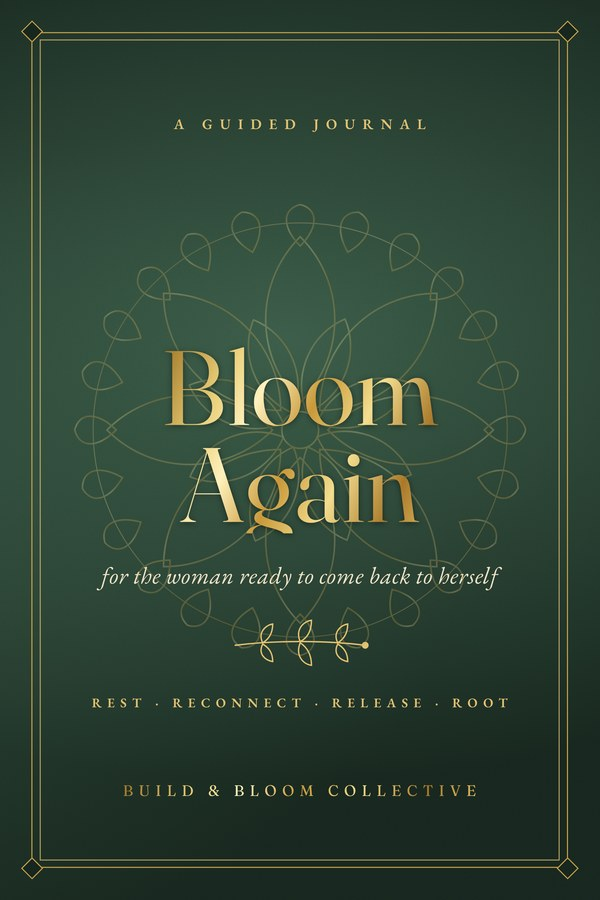
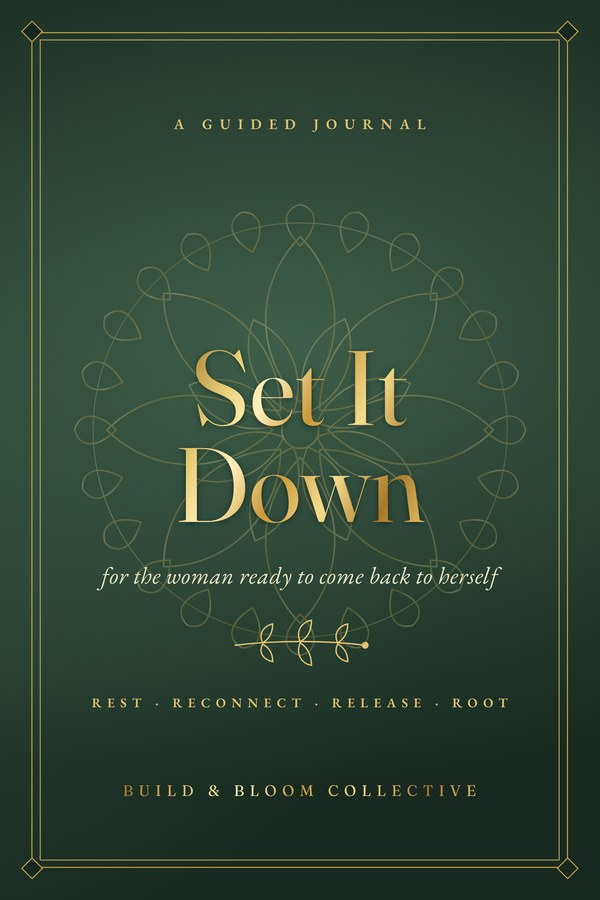
Rename the journal from Bloom Again to Set It Down
Claude-Session: https://claude.ai/code/session_015517fZLRZNdjBK4fYvaqjR

Changed region(s): [[0.27, 0.3733, 0.72, 0.5911]]

diff --git a/app/(site)/bloom-again/page.tsx b/app/(site)/bloom-again/page.tsx
@@ -4,8 +4,8 @@ import "@/components/site/wellness.css";
 import "@/components/site/bloom-again.css";
 
 export const metadata = {
-  title: "Bloom Again: Journal Companion",
-  description: "The free companion to Bloom Again, the guided journal by Jadon Thomas: a 30-day email follow-along, the practices step by step, and printable pages.",
+  title: "Set It Down: Journal Companion",
+  description: "The free companion to Set It Down, the guided journal by Jadon Thomas: a 30-day email follow-along, the practices step by step, and printable pages.",
 };
 
 const PARTS = ["Rest", "Reconnect", "Release", "Root"] as const;
@@ -22,7 +22,7 @@ export default function BloomAgain() {
       <section className="page-hero wl-hero">
         <div className="wrap ba-hero">
           <div>
-            <p className="eyebrow">The Bloom Again companion</p>
+            <p className="eyebrow">The Set It Down companion</p>
             <h1 style={{ marginTop: 16 }}>
               <span className="ink">You don&rsquo;t have to</span> do this alone.
             </h1>
@@ -35,7 +35,7 @@ export default function BloomAgain() {
               <a className="btn btn-ghost" href="#practices">The practices</a>
             </div>
           </div>
-          <img className="ba-cover" src="/bloom-again/cover.jpg" alt="Bloom Again, a guided journal by Jadon Thomas" width={600} height={900} />
+          <img className="ba-cover" src="/bloom-again/cover.jpg" alt="Set It Down, a guided journal by Jadon Thomas" width={600} height={900} />
         </div>
       </section>
 
@@ -129,7 +129,7 @@ export default function BloomAgain() {
       <section className="section">
         <div className="wrap narrow">
           <p className="small muted" style={{ textAlign: "center", margin: 0 }}>
-            Bloom Again is a tool for reflection and self-care, not a substitute for therapy or medical care. If you&rsquo;re in crisis, call or text 988 in the United States, any time.
+            Set It Down is a tool for reflection and self-care, not a substitute for therapy or medical care. If you&rsquo;re in crisis, call or text 988 in the United States, any time.
           </p>
         </div>
       </section>

diff --git a/lib/email-audience.ts b/lib/email-audience.ts
@@ -38,11 +38,11 @@ export async function audiences(): Promise<Audience[]> {
     { id: "clients", label: "Active clients", hint: "Clients with a full portal who are active or completed.", people: dedupe(full.map((c) => person(c.name, c.email, "Client", c.contactName ? firstName(c.contactName) : undefined))) },
     { id: "guests", label: "All event guests", hint: "Everyone with a guest pass.", people: dedupe(guests.map((c) => person(c.name, c.email, "Guest"))) },
     { id: "leads", label: "Leads: new and contacted", hint: "Inquiries, guidebook requests, and event guests who aren't clients yet.", people: dedupe(openLeads.map((l) => person(l.name, l.email, "Lead"))) },
-    { id: "bloomagain", label: "Bloom Again readers", hint: "Everyone who joined the journal's 30-day follow-along.", people: dedupe(readers.map((r) => person(r.name, r.email, "Reader"))) },
+    { id: "bloomagain", label: "Set It Down readers", hint: "Everyone who joined the journal's 30-day follow-along.", people: dedupe(readers.map((r) => person(r.name, r.email, "Reader"))) },
     { id: "waitlist", label: "Wellness Library waitlist", hint: "Everyone still waiting or invited.", people: dedupe(waitlist.filter((w) => w.status !== "joined").map((w) => person(w.name, w.email, "Waitlist"))) },
   );
   const everyone = dedupe([...full.map((c) => person(c.name, c.email, "Client", c.contactName ? firstName(c.contactName) : undefined)), ...guests.map((c) => person(c.name, c.email, "Guest")), ...leads.filter((l) => l.status !== "closed").map((l) => person(l.name, l.email, "Lead")), ...waitlist.map((w) => person(w.name, w.email, "Waitlist")), ...readers.map((r) => person(r.name, r.email, "Reader"))]);
-  out.push({ id: "everyone", label: "Everyone", hint: "All clients, guests, leads (except closed), the waitlist, and Bloom Again readers, each address once.", people: everyone });
+  out.push({ id: "everyone", label: "Everyone", hint: "All clients, guests, leads (except closed), the waitlist, and Set It Down readers, each address once.", people: everyone });
   return out;
 }
 

diff --git a/lib/shop-def.ts b/lib/shop-def.ts
@@ -79,8 +79,8 @@ export const DEFAULT_PRODUCTS: Product[] = [
 ];
 
 export const BLOOM_AGAIN: Product = {
-  id: "bloom-again", slug: "bloom-again", title: "Bloom Again", subtitle: "A guided journal to rest, reconnect, release, and root, for the woman ready to come back to herself.",
-  description: "You have been carrying so much, for so long. This is where you set it down.\n\nBloom Again is a guided journal for women who pour into their families, their work, and their communities, and are ready to come back to themselves. It walks you gently through four seasons of renewal: Rest, Reconnect, Release, and Root.\n\nEvery copy comes with a free companion online: a 30-day follow-along by email, every practice step by step, and printable pages.\n\nGo at your own pace. There is no falling behind here. Just you, coming home.",
+  id: "bloom-again", slug: "set-it-down", title: "Set It Down", subtitle: "A guided journal to rest, reconnect, release, and root, for the woman ready to come back to herself.",
+  description: "You have been carrying so much, for so long. This is where you set it down.\n\nSet It Down is a guided journal for women who pour into their families, their work, and their communities, and are ready to come back to themselves. It walks you gently through four seasons of renewal: Rest, Reconnect, Release, and Root.\n\nEvery copy comes with a free companion online: a 30-day follow-along by email, every practice step by step, and printable pages.\n\nGo at your own pace. There is no falling behind here. Just you, coming home.",
   price: 14.99, kind: "Journal", cover: "/bloom-again/cover.jpg", file: "",
   includes: ["48 guided prompts across four seasons", "8 simple practices for calm and clarity", "The Bloom Check self-assessment and a burnout warning signs checklist", "30 daily check-ins and 8 weekly reflections", "A monthly mood tracker and affirmations for every season", "Free 30-day email follow-along and printables"],
   pages: "144-page paperback", status: "soon", featured: true, extrasUrl: "/bloom-again",

diff --git a/lib/bloom-again-def.ts b/lib/bloom-again-def.ts
@@ -1,4 +1,4 @@
-/** Bloom Again, the guided journal: the companion page's practices and the 30-day follow-along emails.
+/** Set It Down (first published as Bloom Again), the guided journal: the companion page's practices and the 30-day follow-along emails.
  *  Shared by the page, the signup route, and the daily cron. */
 
 export interface Practice {
@@ -27,7 +27,7 @@ export interface DayEmail { subject: string; preheader: string; heading: string;
 /** One short note a day, matched to the journal. Day 1 goes out the moment someone signs up. */
 export const DAYS: DayEmail[] = [
   // Week 1: Rest
-  { subject: "Day 1: You made it to the first page", preheader: "Start with the Bloom Check. No wrong answers.", heading: "Welcome to Bloom Again",
+  { subject: "Day 1: You made it to the first page", preheader: "Start with the Bloom Check. No wrong answers.", heading: "Welcome to Set It Down",
     body: "I'm so glad you're here. For the next 30 days, I'll send you one short note each morning to walk beside you as you journal.\n\nToday, start at the very beginning: **the Bloom Check**. Circle a number for each area of your life. Be honest, not hard on yourself. This is a starting point, not a grade.\n\nThen fill in your first daily check-in. Five minutes is plenty.",
     today: "The Bloom Check and Day 01" },
   { subject: "Day 2: What are you carrying?", preheader: "Get it out of your head and onto the page.", heading: "Name what you're carrying",

diff --git a/lib/shop.ts b/lib/shop.ts
@@ -22,6 +22,13 @@ export async function listProducts(): Promise<Product[]> {
     await kv().set(PK, list);
     await kv().set("bb:shop:mig:bloomagain1", 1);
   }
+  // One-time: the journal was renamed from Bloom Again to Set It Down. Keeps any edits made in admin.
+  if (!(await kv().get("bb:shop:mig:setitdown1"))) {
+    const rn = (t?: string) => t?.replace(/Bloom Again/g, "Set It Down");
+    list = list.map((p) => (p.id === BLOOM_AGAIN.id ? { ...p, slug: BLOOM_AGAIN.slug, title: BLOOM_AGAIN.title, subtitle: rn(p.subtitle) ?? p.subtitle, description: rn(p.description) ?? p.description } : p));
+    await kv().set(PK, list);
+    await kv().set("bb:shop:mig:setitdown1", 1);
+  }
   return list;
 }
 export async function saveProducts(p: Product[]) { await kv().set(PK, p); }

diff --git a/lib/bloom-again.ts b/lib/bloom-again.ts
@@ -42,7 +42,7 @@ async function sendDay(r: Reader, n: number, origin: string): Promise<boolean> {
   const last = n === DAYS.length;
   const { html, text } = renderEmail(brand, {
     preheader: d.preheader,
-    eyebrow: `Bloom Again · Day ${n} of ${DAYS.length}`,
+    eyebrow: `Set It Down · Day ${n} of ${DAYS.length}`,
     heading: d.heading,
     body: `Hi ${firstName(r.name) || "friend"},\n\n${d.body}`,
     list: [`Today in your journal: ${d.today}`],
